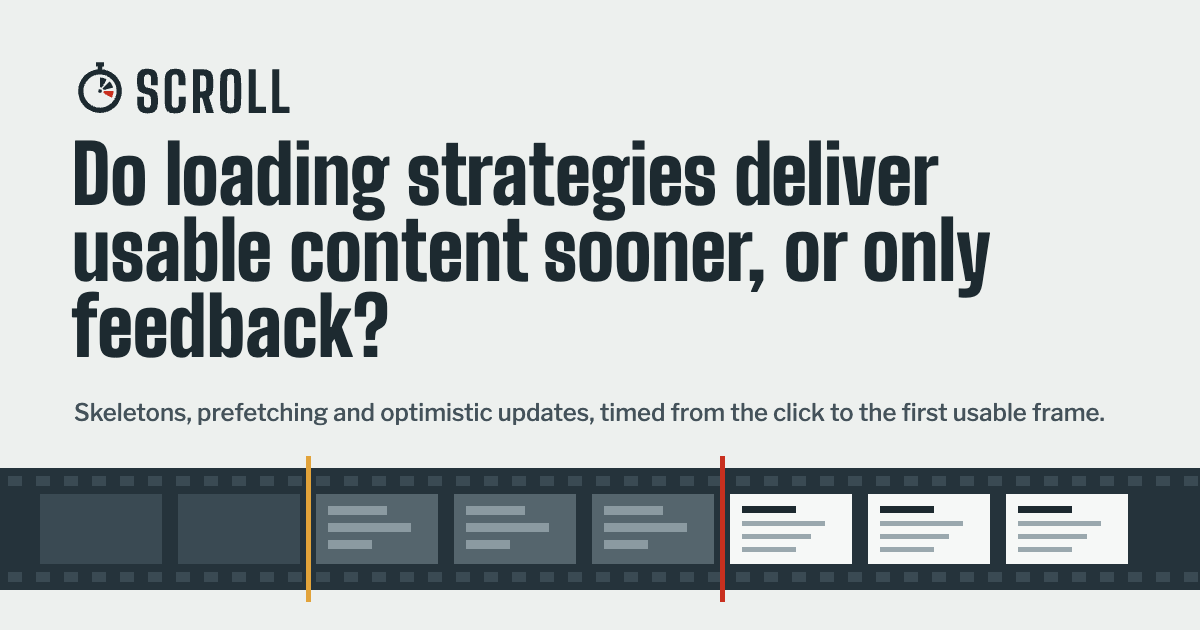
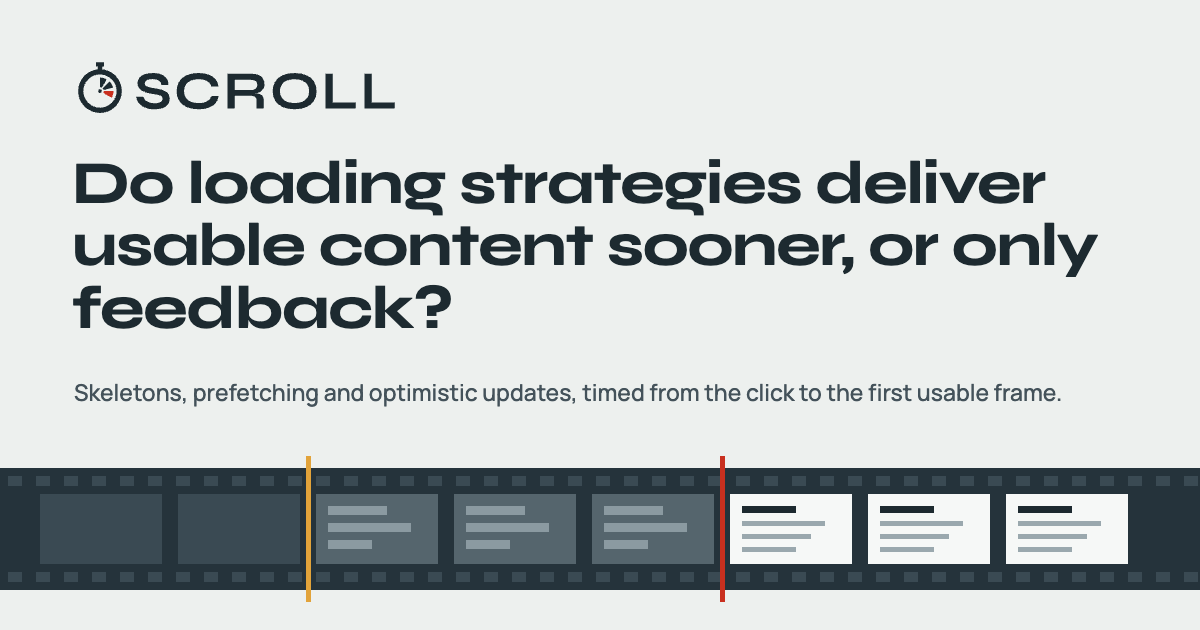
Demo: unique typeface pair across the labs (owner request 2026-11-26)

Changed region(s): [[0.0617, 0.2111, 0.925, 0.573], [0.0617, 0.6032, 0.925, 0.6937], [0.0925, 0.0905, 0.3392, 0.181]]

diff --git a/demo/src/style.css b/demo/src/style.css
@@ -19,20 +19,20 @@
   --error-bg: #fbe9e6; --error-fg: #8a1a0e;
   --ease-out: cubic-bezier(0.23, 1, 0.32, 1);
   --ease-in-out: cubic-bezier(0.77, 0, 0.175, 1);
-  --display: "Big Shoulders Display", "Arial Narrow", sans-serif;
-  --text: "Libre Franklin", "Helvetica Neue", Arial, sans-serif;
+  --display: "Syne", "Avenir Next", "Helvetica Neue", Arial, sans-serif;
+  --text: "Manrope", "Helvetica Neue", Arial, sans-serif;
   color-scheme: light;
 }
 * { box-sizing: border-box; }
 html { -webkit-text-size-adjust: 100%; scroll-behavior: smooth; }
 body {
   margin: 0; background: var(--paper); color: var(--ink);
-  font: 400 1.0625rem/1.6 var(--text); font-variant-numeric: tabular-nums lining-nums;
+  font: 400 1.0625rem/1.62 var(--text); font-variant-numeric: tabular-nums lining-nums;
 }
-h1, h2, h3, h4 { font-family: var(--display); font-weight: 800; line-height: 1.02; letter-spacing: 0.005em; margin: 0 0 0.6rem; }
-h2 { font-size: clamp(2rem, 4.4vw, 2.75rem); }
-h3 { font-size: 1.6rem; font-weight: 750; }
-h4 { font-size: 1.3rem; font-weight: 700; }
+h1, h2, h3, h4 { font-family: var(--display); font-weight: 700; line-height: 1.08; letter-spacing: -0.012em; margin: 0 0 0.6rem; }
+h2 { font-size: clamp(1.7rem, 3.5vw, 2.3rem); }
+h3 { font-size: 1.32rem; font-weight: 700; }
+h4 { font-size: 1.1rem; font-weight: 700; letter-spacing: 0; }
 p, li, dd { max-width: 68ch; }
 a { color: var(--ink); text-decoration-color: var(--sweep); text-decoration-thickness: 2px; text-underline-offset: 3px; }
 code { font-size: 0.9em; overflow-wrap: anywhere; }
@@ -63,7 +63,7 @@ nav a { white-space: nowrap; text-decoration: none; padding: 0 0.65rem; min-heig
 @media (min-width: 48rem) { .hero { padding: 4.5rem 32px 4.5rem; } }
 @media (min-width: 62rem) { .hero { grid-template-columns: 1.15fr 1fr; gap: 3.5rem; } }
 .hero-kicker { margin: 0 0 1rem; font-weight: 600; color: var(--ink-2); font-size: 1rem; }
-.hero h1 { font-size: clamp(2.6rem, 6.4vw, 4.6rem); font-weight: 850; line-height: 0.96; margin: 0 0 1.4rem; text-wrap: balance; }
+.hero h1 { font-size: clamp(1.95rem, 4.5vw, 3.25rem); font-weight: 700; line-height: 1.07; letter-spacing: -0.02em; margin: 0 0 1.4rem; text-wrap: balance; }
 .hero-answer { font-size: clamp(1.1rem, 1.7vw, 1.3rem); line-height: 1.55; margin: 0 0 1.2rem; max-width: 40ch; }
 .hero-by { color: var(--ink-2); margin: 0 0 1.8rem; font-size: 0.97rem; }
 .hero-actions { display: flex; flex-wrap: wrap; gap: 0.75rem; margin: 0; }
@@ -198,7 +198,8 @@ figure.chart svg { width: 100%; height: auto; display: block; }
 figure.chart figcaption { color: var(--ink-2); font-size: 0.92rem; margin-top: 0.6rem; max-width: 68ch; }
 svg .grid { stroke: var(--line); stroke-width: 1; }
 svg .axis { fill: var(--ink-2); font: 500 12px var(--text); }
-svg .armlabel { fill: var(--ink); font: 700 15px var(--display); letter-spacing: 0.02em; }
+svg .armlabel { fill: var(--ink); font: 700 13.5px var(--display); letter-spacing: 0; }
+@media (max-width: 40rem) { svg .armlabel { font-size: 11.5px; font-weight: 600; } }
 svg .delay { stroke: var(--ink); stroke-dasharray: 4 4; stroke-width: 1.5; }
 svg .strip { fill: var(--film); }
 svg .sprocket { fill: var(--paper); opacity: 0.55; }
@@ -223,10 +224,10 @@ svg .iqr { stroke: var(--ink); stroke-width: 3; }
 .replay h3 { display: flex; flex-wrap: wrap; gap: 0.5rem 0.75rem; align-items: center; }
 .replay-clock { display: flex; flex-wrap: wrap; align-items: baseline; gap: 0.6rem; margin: 1rem 0 0.5rem; }
 .clock-label { color: var(--ink-2); font-size: 0.92rem; }
-.readout { font: 800 2.4rem/1 var(--display); font-variant-numeric: tabular-nums; min-width: 5.5ch; color: var(--ink); }
+.readout { font: 700 2rem/1 var(--display); letter-spacing: -0.01em; font-variant-numeric: tabular-nums; min-width: 5.5ch; color: var(--ink); }
 .mini-grid { display: grid; grid-template-columns: repeat(auto-fit, minmax(10rem, 1fr)); gap: 1rem; margin-top: 0.75rem; }
 figure.mini { margin: 0; }
-figure.mini figcaption { font-family: var(--display); font-size: 1.15rem; font-weight: 750; margin-bottom: 0.35rem; }
+figure.mini figcaption { font-family: var(--display); font-size: 1rem; font-weight: 700; margin-bottom: 0.35rem; }
 .mini-box { height: 7rem; border: 7px solid var(--film); border-radius: 2px; padding: 0.6rem; background: var(--developed); display: flex; flex-direction: column; gap: 0.4rem; justify-content: center; }
 .mini-empty { flex: 1; }
 .mini-skel { display: flex; flex-direction: column; gap: 0.4rem; }

diff --git a/demo/src/fonts.css b/demo/src/fonts.css
@@ -2,18 +2,18 @@
 /* Self-hosted fonts (Fontsource packages, SIL Open Font License 1.1), Latin subset only,
    bundled by Vite into the build: no request leaves the origin. See demo/README.md. */
 @font-face {
-  font-family: "Big Shoulders Display";
+  font-family: "Syne";
   font-style: normal;
   font-display: swap;
-  font-weight: 100 900;
-  src: url("../node_modules/@fontsource-variable/big-shoulders-display/files/big-shoulders-display-latin-wght-normal.woff2") format("woff2-variations");
+  font-weight: 400 800;
+  src: url("../node_modules/@fontsource-variable/syne/files/syne-latin-wght-normal.woff2") format("woff2-variations");
   unicode-range: U+0000-00FF, U+0131, U+0152-0153, U+02BB-02BC, U+02C6, U+02DA, U+02DC, U+0304, U+0308, U+0329, U+2000-206F, U+20AC, U+2122, U+2191, U+2193, U+2212, U+2215, U+FEFF, U+FFFD;
 }
 @font-face {
-  font-family: "Libre Franklin";
+  font-family: "Manrope";
   font-style: normal;
   font-display: swap;
-  font-weight: 100 900;
-  src: url("../node_modules/@fontsource-variable/libre-franklin/files/libre-franklin-latin-wght-normal.woff2") format("woff2-variations");
+  font-weight: 200 800;
+  src: url("../node_modules/@fontsource-variable/manrope/files/manrope-latin-wght-normal.woff2") format("woff2-variations");
   unicode-range: U+0000-00FF, U+0131, U+0152-0153, U+02BB-02BC, U+02C6, U+02DA, U+02DC, U+0304, U+0308, U+0329, U+2000-206F, U+20AC, U+2122, U+2191, U+2193, U+2212, U+2215, U+FEFF, U+FFFD;
 }

diff --git a/demo/src/App.tsx b/demo/src/App.tsx
@@ -27,7 +27,7 @@ export function App() {
       <header className="site">
         <div className="bar">
           <a className="brand" href="#top" aria-label="SCROLL, back to the top">
-            <img src="brand/scroll-lockup.svg" alt="" width="118" height="30" />
+            <img src="brand/scroll-lockup.svg" alt="" width="176" height="30" />
           </a>
           <nav aria-label="Sections">
             <a href="#traces">Traces</a>
@@ -69,7 +69,7 @@ export function App() {
       </main>
       <footer className="site">
         <div className="wrap foot">
-          <img className="foot-mark" src="brand/scroll-lockup-on-dark.svg" alt="SCROLL" width="134" height="34" />
+          <img className="foot-mark" src="brand/scroll-lockup-on-dark.svg" alt="SCROLL" width="199" height="34" />
           <ul className="foot-links">
             <li><a href={REPO}>Source repository on GitHub</a></li>
             <li><a href={`${REPO}/blob/main/research/paper/manuscript.md`}>Manuscript (preprint draft)</a></li>
@@ -86,7 +86,7 @@ export function App() {
             assistant; it is not an author.
           </p>
           <p>
-            Typefaces: Big Shoulders Display and Libre Franklin, both under the SIL Open Font License 1.1, self-hosted.
+            Typefaces: Syne and Manrope, both under the SIL Open Font License 1.1, self-hosted.
           </p>
         </div>
       </footer>

diff --git a/demo/DESIGN.md b/demo/DESIGN.md
@@ -26,10 +26,12 @@ A timing lab, not a dashboard. Every measured trace is drawn as a strip of film:
 
 ## Type
 
-- **Big Shoulders Display** (variable, OFL 1.1): headlines, the wordmark, the stopwatch readout in the replay. A condensed, signage-like face from Chicago street lettering; condensed numerals sit like a timer display.
-- **Libre Franklin** (variable, OFL 1.1): body, tables, controls, chart labels; tabular figures for every number.
+- **Syne** (variable 400 to 800, OFL 1.1): headlines, the wordmark, the stopwatch readout in the replay. Drawn for the Synesthèse art centre, it widens as it gets heavier, like a frame stretched across a wide film gate; at 700 its round, open capitals give the wordmark a cinema-title width beside the round stopwatch, and its tabular figures keep the replay readout steady.
+- **Manrope** (variable 200 to 800, OFL 1.1): body, tables, controls, chart labels. A geometric grotesque with a large x-height that stays clear at 12 to 15 px in chart labels and tables; tabular figures (`tnum`) for every number.
 
-Scale (Elements of Typographic Style, base 17 px): 13, 15, 17, 21, 28, 40, 64 px. Body line length capped at 68 characters.
+The pair replaced Big Shoulders Display and Libre Franklin on 2026-11-26 (owner request: no two lab demos share a typeface). Syne is much wider than the condensed face it replaced, so the scale was re-tuned: headlines set at weight 700 with slight negative tracking and line-height 1.07 to 1.08; hero 31 to 52 px, section heads 27 to 37 px, h3 21 px, h4 18 px, readout 32 px; trace arm labels 13.5 px (11.5 px at weight 600 on phones, where the wider face would otherwise be clipped). The wordmark caps are 160 units tall, centred on the stopwatch ring.
+
+Scale (base 17 px): 13, 15, 17, 18, 21, 27 to 37, 31 to 52 px. Body line length capped at 68 characters.
 
 ## Layout
 
@@ -39,7 +41,7 @@ Left-aligned throughout, one column of prose (max 42 rem) with wide figures brea
 +----------------------------------------------------------------+
 | [mark] SCROLL   Traces  Overview  Results  Method  Sandbox      |  sticky, 56 px, paper with hairline
 +----------------------------------------------------------------+
-| Question (Big Shoulders, 40 to 64 px)       +----------------+ |
+| Question (Syne, 31 to 52 px)                +----------------+ |
 | Answer in one sentence                       |  stopwatch     | |
 | author line, status chip                     |  + film strip  | |
 |                                              | Illustration,  | |
@@ -78,7 +80,7 @@ The measured traces drawn as film strips with a split hand and a sweep hand: the
 
 - *Cream plus terracotta:* the paper is cool grey (`#EDF0EE`), the accent is a stopwatch red used only for the sweep hand and the primary action. Kept, with that restriction.
 - *Near-black with one acid accent:* the dark film base appears only in strips, the hero plate and the footer, and it carries two hands (amber and red), not one acid accent. Kept.
-- *All-caps tracked eyebrows, mono data labels:* removed the old uppercase kicker; labels are sentence case in Libre Franklin; no monospace anywhere except file paths in `code`.
+- *All-caps tracked eyebrows, mono data labels:* removed the old uppercase kicker; labels are sentence case in Manrope; no monospace anywhere except file paths in `code`.
 - *01/02/03 markers:* none. The limitations list stays an ordered list because the manuscript numbers them.
 - *Identical rounded SaaS cards:* experiment panels became frames of a contact sheet (square corners, a film-edge rule on the left), the sandbox a workbench with a dashed register mark border; different shapes for different jobs.
 - *Fade-up on every section:* removed from the first draft, which faded every section in; only the trace strips reveal, because they are the result.

diff --git a/progress.md b/progress.md
@@ -485,3 +485,34 @@ New: `demo/DESIGN.md`, `demo/src/Hero.tsx`, `demo/src/motion.ts`, `demo/src/font
 ### Risks and next action
 
 The phone page is long (about 23,700 px) because the result tables wrap. Unverified on a real phone. Deploy is the coordinator's step after the owner's review.
+
+## 2026-11-26: unique typeface pair across the labs (owner request)
+
+Authority: owner request of 2026-11-26 ("do not match fonts, I want each website to be unique and branded"), coordinator's FONT-UNIQUE brief (SCROLL row: Syne and Manrope, both faces change). Bounded task: `demo/` only; the measured benchmark pages, harness and fixtures were not touched. No number, data, fixture, test expectation or accessible name changed. Nothing pushed or deployed.
+
+### Starting state
+
+`git status`: clean at `62b0dd7`. The demo used Big Shoulders Display and Libre Franklin, a pair shared with MARKET.
+
+### Decisions
+
+- Fonts: `@fontsource-variable/syne` 5.3.0 (display, wght 400 to 800) and `@fontsource-variable/manrope` 5.3.0 (text, wght 200 to 800), OFL 1.1, installed with `npm_config_before=2026-11-12`; the old packages uninstalled. Both faces have `tnum`, so figures stay tabular in either face.
+- Type scale re-tuned for a much wider display face: headings at weight 700 with slight negative tracking (hero 31 to 52 px, h2 27 to 37 px, h3 21 px, h4 18 px), replay readout 32 px, trace arm labels 13.5 px (11.5 px at weight 600 on phones; at 13.5 px the wider face clipped SKELETON and PREFETCH on the 390 px screenshot).
+- Logo: the lockup's wordmark redrawn from Syne outlines at weight 700 (fontTools, cap height 160 centred on the ring; lockup now 1501 by 256). Mark and small cut are unchanged, so `favicon.svg` and `favicon-32.png` are unchanged. `og.png` re-rendered with the new faces. Header and footer `img` width attributes updated to the new aspect ratio; footer font credit updated.
+
+### Commands and actual outputs
+
+```
+$ python3 -I .../svg_audit.py scroll-lockup.svg scroll-mark.svg scroll-mark-small.svg
+  -> lockup 97/100 (info only: decimals, 174 anchors, extra-wide; no warning), mark 100/100, small cut 100/100
+$ (demo) npm test                          -> Tests 24 passed (24)
+$ (demo) npm run build                     -> dist 451,406 bytes; fonts 34.6 kB (Syne) + 24.8 kB (Manrope)
+$ (demo) node tools/a11y_check.mjs dist    -> A11Y-CHECK PASS
+$ .venv/bin/python -m pytest -q tests/test_demo_export.py -> 15 passed
+```
+
+Screenshots: CDP real-time capture, desktop 1440 and phone 390, served on port 5247 (stopped afterwards). Pass 1 found the hero too heavy at weight 760 and the phone arm labels clipped; both fixed in pass 2.
+
+### Risks and next action
+
+Phone page still long because wide result tables scroll (unchanged). Deploy is the coordinator's step.

diff --git a/demo/README.md b/demo/README.md
@@ -25,12 +25,12 @@ Regenerate the data and the sandbox fixture (from the repository root):
     .venv/bin/python scripts/export_demo_data.py
     .venv/bin/python scripts/export_sandbox_fixture.py
 
-Design and brand (owner request of 2026-11-26): the page has its own identity, the stopwatch and the film strip; the plan and its review are in `DESIGN.md`. Brand files are in `public/brand/`: the mark (`scroll-mark.svg`, mono, on-dark and a small-size cut), the wordmark lockup (`scroll-lockup.svg`, mono and on-dark), `favicon.svg`, `favicon-32.png` and the Open Graph image `og.png` (1200 by 630, rendered from an HTML page with headless Chrome). The wordmark letters are outlines of Big Shoulders Display at weight 800. The hero animation is an illustration, labelled as such, and shows no number.
+Design and brand (owner request of 2026-11-26): the page has its own identity, the stopwatch and the film strip; the plan and its review are in `DESIGN.md`. Brand files are in `public/brand/`: the mark (`scroll-mark.svg`, mono, on-dark and a small-size cut), the wordmark lockup (`scroll-lockup.svg`, mono and on-dark), `favicon.svg`, `favicon-32.png` and the Open Graph image `og.png` (1200 by 630, rendered from an HTML page with headless Chrome). The wordmark letters are outlines of Syne at weight 700 (redrawn on 2026-11-26 when the labs were given unique typeface pairs). The hero animation is an illustration, labelled as such, and shows no number.
 
 Third-party notes (fonts, bundled and self-hosted, Latin subset only):
 
-- Big Shoulders Display, npm package `@fontsource-variable/big-shoulders-display` 5.3.0, SIL Open Font License 1.1.
-- Libre Franklin, npm package `@fontsource-variable/libre-franklin` 5.3.0, SIL Open Font License 1.1.
+- Syne, npm package `@fontsource-variable/syne` 5.3.0, SIL Open Font License 1.1.
+- Manrope, npm package `@fontsource-variable/manrope` 5.3.0, SIL Open Font License 1.1.
 
 Demo URL: https://scroll-perceived-performance.kefimohamedbechir.workers.dev. The page is hosted as Cloudflare Workers static assets on the free plan, from the built `dist/` folder as configured in `wrangler.jsonc` (assets only, no Worker script). It is deployed by the coordinator, not by any script of this repository.
 
